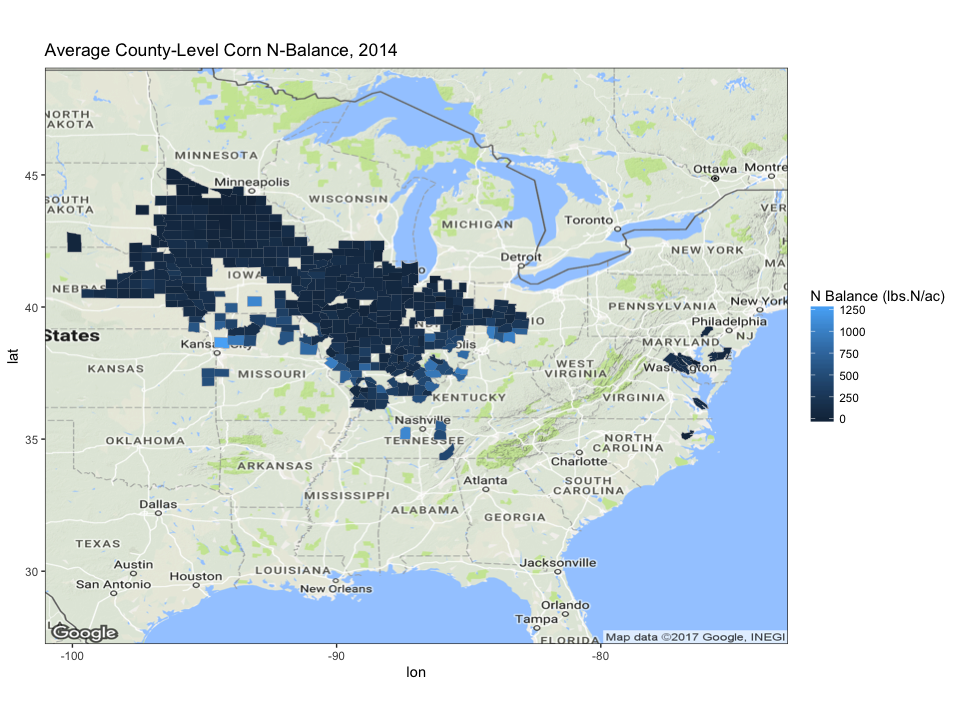
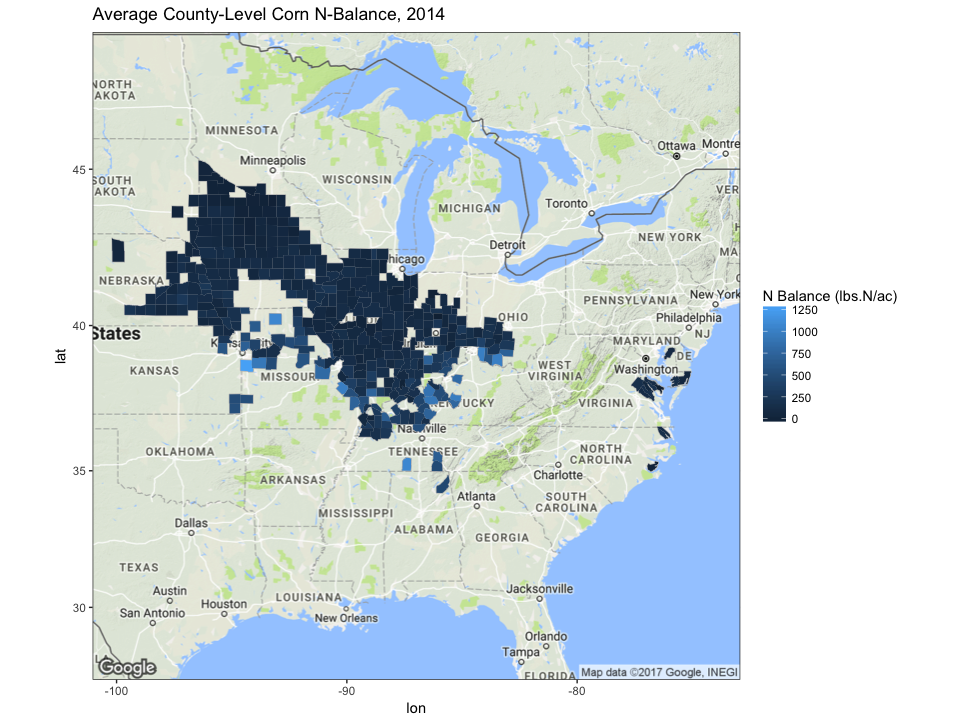
fixed map coords

diff --git a/README.md b/README.md
@@ -1,32 +1,33 @@
-Create Nitrogen-Balance Validation Dataset from Public Sources
+Create County-Average Corn Nitrogen-Balance Estimates from Public Datasets
 ================
 Kenneth Qin
-2017-07-04
+2017-07-14
 
 Background
 ----------
 
-The main barrier to successfully deploying a satellite-based monitoring system for targeted fertilizer conservation programs is the lack of sufficient ground-truthed field-scale fertilizer application data. In theory, if we could receive annual reports of yield, crop type, and nitrogen (N) fertilizer application rate from each field in the U.S., we could develop a crude N-balance prediction system that operates at the field-scale. However, this data is elusive in part because of the legitimate concern for farmers' privacy rights. A recent study from Iowa State University reported that "30% of farmers agreed that government use of remote sensing and other tools to identify issues on private land is an invasion of privacy" (Arbuckle, 2013).
+The main barrier to successfully deploying a targeted fertilizer conservation program for commodity crops is the lack of sufficiently high-coverage, high-resolution fertilizer application data. In theory, if we could receive annual reports of yield, crop type, and nitrogen (N) fertilizer application rate from each field in the U.S., we could develop a crude N-balance prediction system that operates at the field-scale. However, this data is elusive in part because of the prevalent concern for farmers' privacy rights. A 2013 [study](http://www.tandfonline.com/doi/abs/10.1080/08941920.2012.671450) from Iowa State University reported that "30% of farmers agreed that government use of remote sensing and other tools to identify issues on private land is an invasion of privacy" (Arbuckle).
 
-In this pilot project, **we do not attempt to predict field-scale attributes using satellite remote sensing**. Instead, we attempt to predict the mean and heterogeneity of **N-balance at the county scale**.
+Thus in this pilot project, **we do not attempt to calculate any field-scale attributes**. Instead, we attempt to predict the mean and heterogeneity of **N-balance for corn fields at the county scale**. In theory, once corn N-balance has been calculated for each county, we will have created a dataset that can be used to validate independent predictions of **county-level** N-balance. Such a model would allow for semi-targeted conservation programs that enroll counties instead of individual farmers.
 
-County-scale estimates of total N fertilizer usage was made available in the EPA's National Emissions Inventory (NEI) reports for 2014; these estimates were based on outputs of the Environmental Policy Integrated Climate (EPIC) model. When combined with the Cropland Data Layer's pixel counts of each land cover type for each county, we can identify those counties where the vast majority (e.g. &gt; 0.95) of all cultivated area consists of corn/soybean, and make the assumption that all N fertilizer within the county was applied to corn acreage. Through this process we can arrive at a **mean fertilizer application rate for corn** for a subset of counties.
+Data Sources
+------------
 
-County-level production (and yield) data can be retrieved from the USDA National Agricultural Statistics Service (NASS) via Quick Stats.
+County-scale estimates of total N fertilizer usage was made available in the EPA's National Emissions Inventory (NEI) reports for 2014; these estimates were based on modeled crop demand (see their [Technical Support Document](https://www.epa.gov/air-emissions-inventories/2014-national-emissions-inventory-nei-technical-support-document-tsd)). When combined with the [Cropland Data Layer's](https://nassgeodata.gmu.edu/CropScape/) pixel counts of each land cover type for each county, we can identify those counties where the vast majority (e.g. &gt; 0.95) of all cultivated area consists of corn/soybean, and make the assumption that all N fertilizer within the county was applied to corn acreage. Through this process we can arrive at a **county-average fertilizer application rate for corn** for a subset of counties.
+
+County-level production (and yield) data can be retrieved from the USDA National Agricultural Statistics Service (NASS) via [Quick Stats](https://quickstats.nass.usda.gov/).
 
 **County-level N-balance for corn** can then be calculated through the following equation:
 
-N.balance = N.input - N.output = N.input - Crop.Production \* N.removal.rate
+*N*.*b**a**l**a**n**c**e* = *N*.*i**n**p**u**t* − *N*.*o**u**t**p**u**t* = *N*.*i**n**p**u**t* − *C**r**o**p*.*P**r**o**d**u**c**t**i**o**n* \* *N*.*r**e**m**o**v**a**l*.*r**a**t**e*
 
-This simplified N-balance equation is sufficient for our purpose of generating county-level validation data for predicting corn N-balance, though we recognize that we are making the following assumptions:
+This simplified N-balance equation is sufficient for our purpose of estimating county-level corn N-balance, though we recognize that we are making the following assumptions:
 
 -   Corn stover / stubble is not removed from the field.
 -   The grain has the standard moisture content of 15.5%.
 -   The grain has a constant N concentration of 1.4%.
 
-*See <http://www.ipni.net/article/IPNI-3296> for details on the grain N calculation.*
-
-Once corn N-balance has been calculated for each county, we will have produced a dataset for use in validating an *a priori* model that converts vegetation indices collected through satellite remote sensing into county-level N-balance predictions.
+See the International Plant Nutrition Institute's (IPNI's) [website](http://www.ipni.net/article/IPNI-3296) for details on the grain N calculation.
 
 Analysis
 --------
@@ -427,10 +428,10 @@ map = get_map(location = c(-87, 39),
 map.plot = ggmap(map)
 
 # Create choropleth (filled) map
-m1 <- map.plot + geom_path(data=Nbalance.cornsoy.geo, aes(x=long, y=lat, group=group), color="grey") + coord_equal()
+m1 <- map.plot + geom_path(data=Nbalance.cornsoy.geo, aes(x=long, y=lat, group=group), color="grey")
 
 m2 <- m1 + geom_polygon(data=Nbalance.cornsoy.geo, aes(x=long, y=lat, group=group, fill=N_Balance)) + 
-  coord_equal() + scale_fill_continuous("N Balance (lbs.N/ac)") +
+  scale_fill_continuous("N Balance (lbs.N/ac)") +
   ggtitle("Average County-Level Corn N-Balance, 2014")
 
 m2
